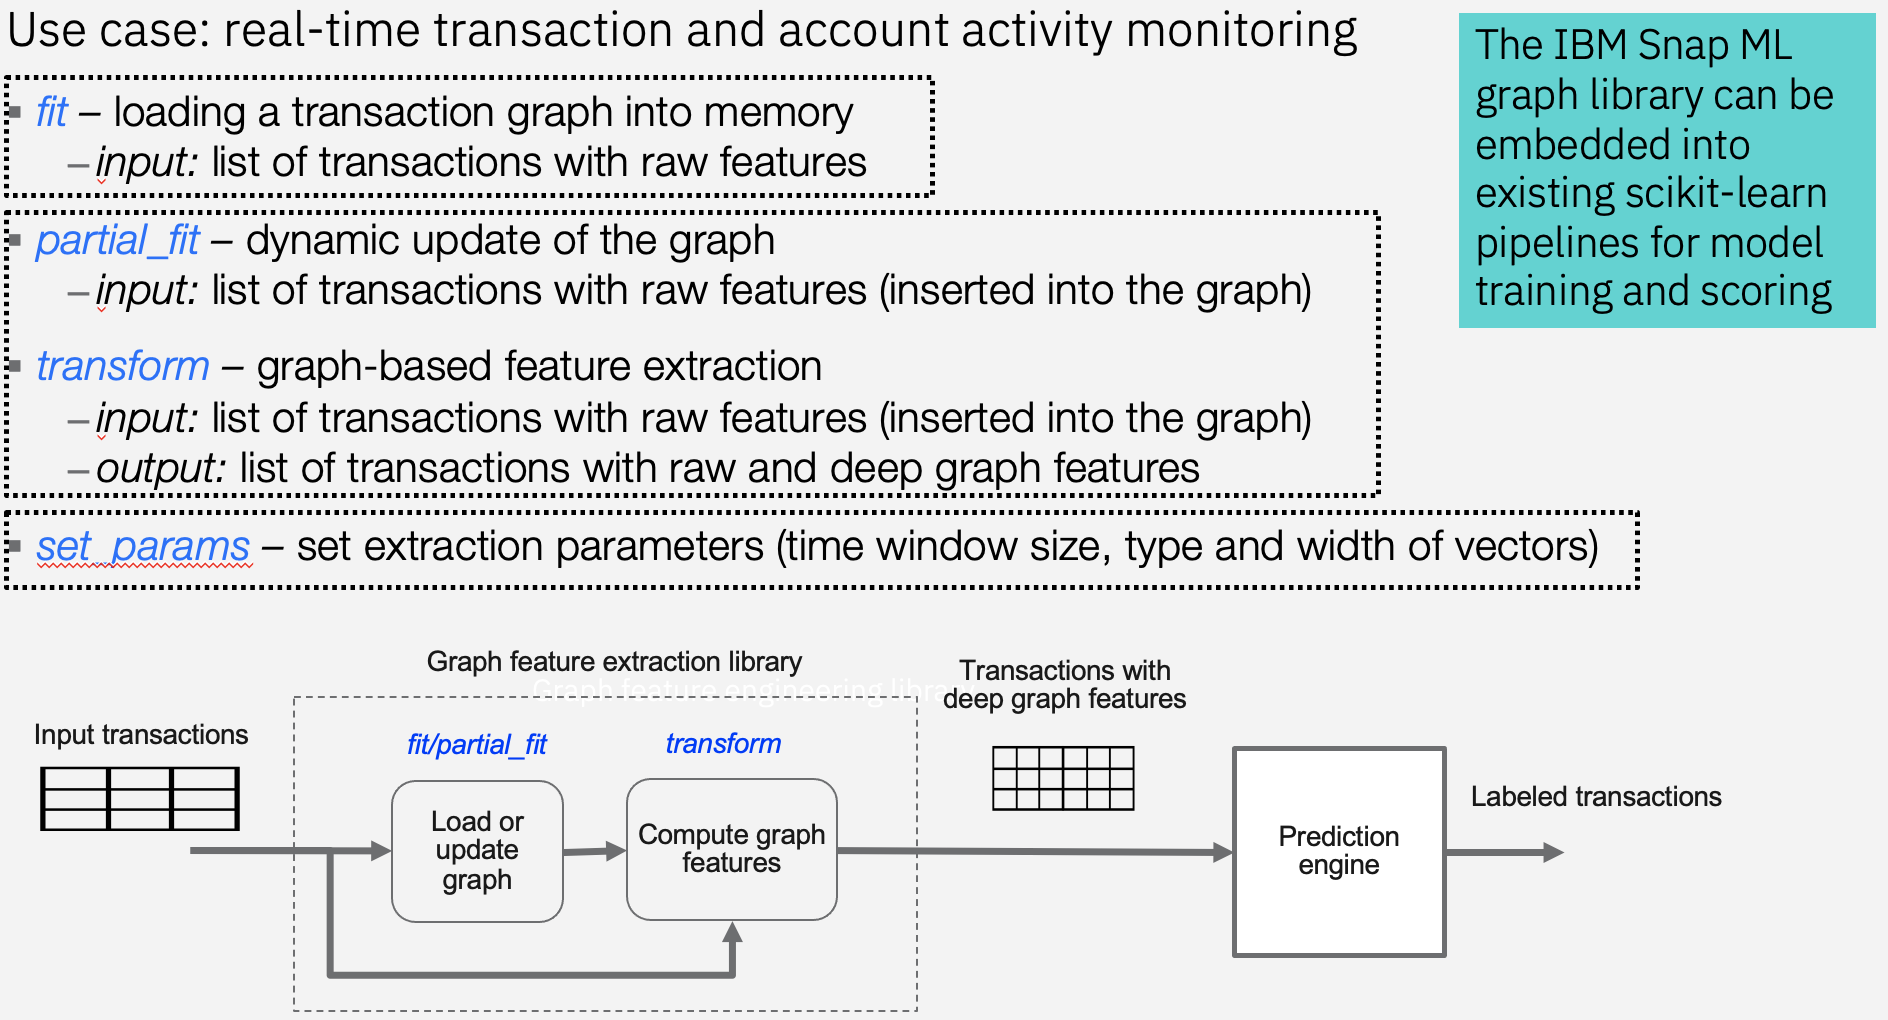
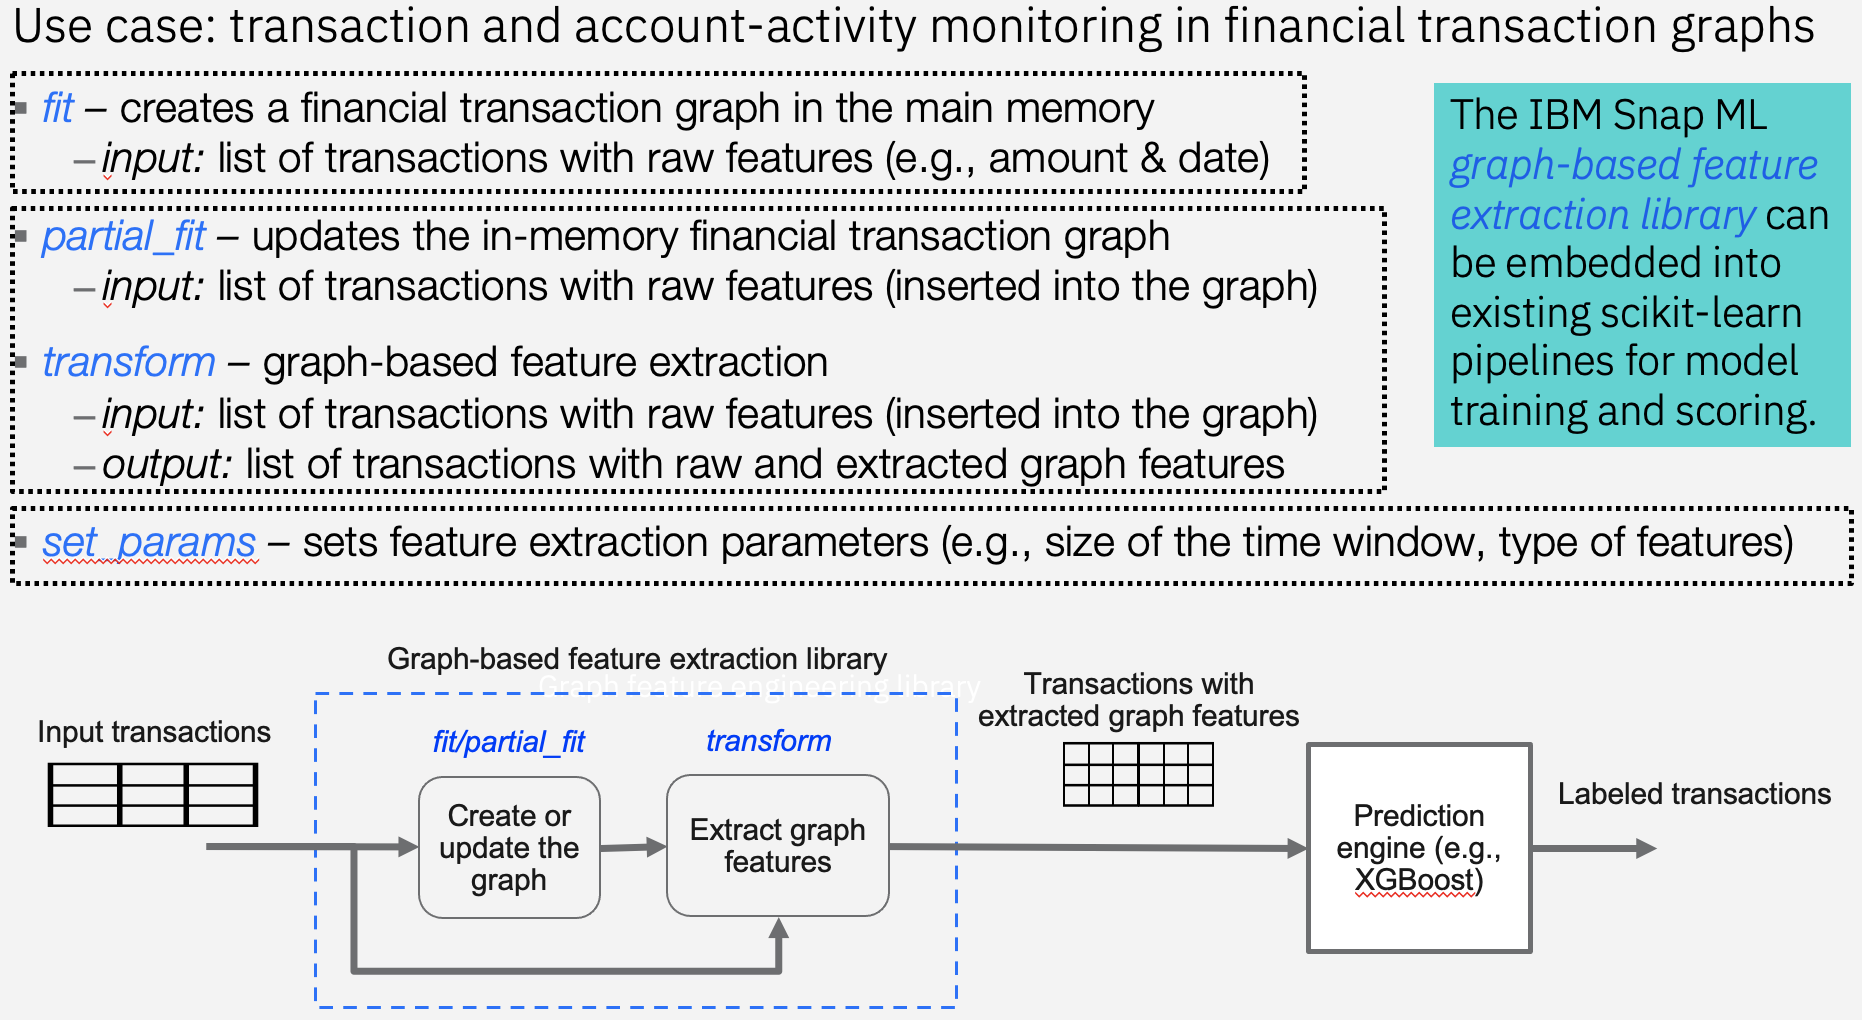
Update documentation of graph preprocessor

diff --git a/docs/source/graph_preprocessor.rst b/docs/source/graph_preprocessor.rst
@@ -1,10 +1,17 @@
-Graph Feature Extraction
-============
+Graph-Based Feature Extraction
+==============================
 
-Snap ML supports feature extraction from graph-structured data.
+The GraphFeaturePreprocessor is a scikit-learn compatible preprocessing library that enables feature extraction from graph-structured data.  
+The library includes features for creating, updating, and transforming graph-structured data. 
+The basic input and output data representation used by the library is an edge list with edge features.
+As an example, in a financial transaction graph, the graph nodes represent accounts and the graph edges represent transactions.
+The date of the transactions as well as the amount transferred between the accounts may be given as edge features.
+However, the GraphFeaturePreprocessor can generate a much richer set of edge features by analyzing the graph.   
+For instance, the GraphFeaturePreprocessor can extract the number of cycles each transaction is a part of in the graph.
+Such additional features can significantly increase the predictive power of machine learning models in many practical settings. 
 
 .. image:: graph-feature-extraction.png
-  :width: 600
+  :width: 800
   :align: center
   :alt: Graph feature extraction 
 
